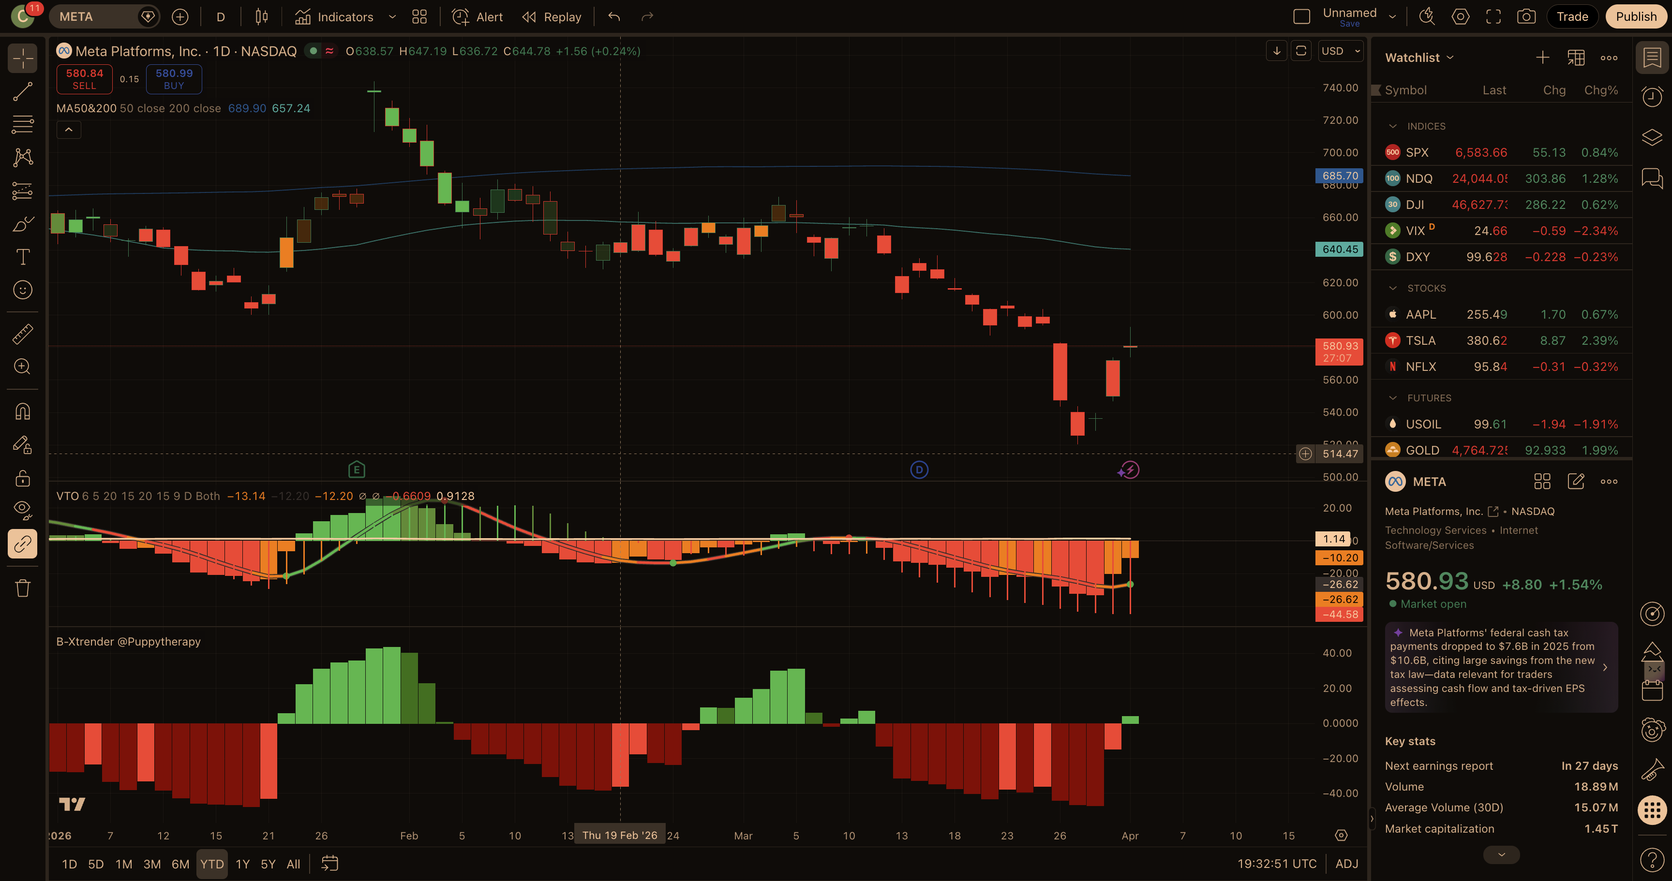
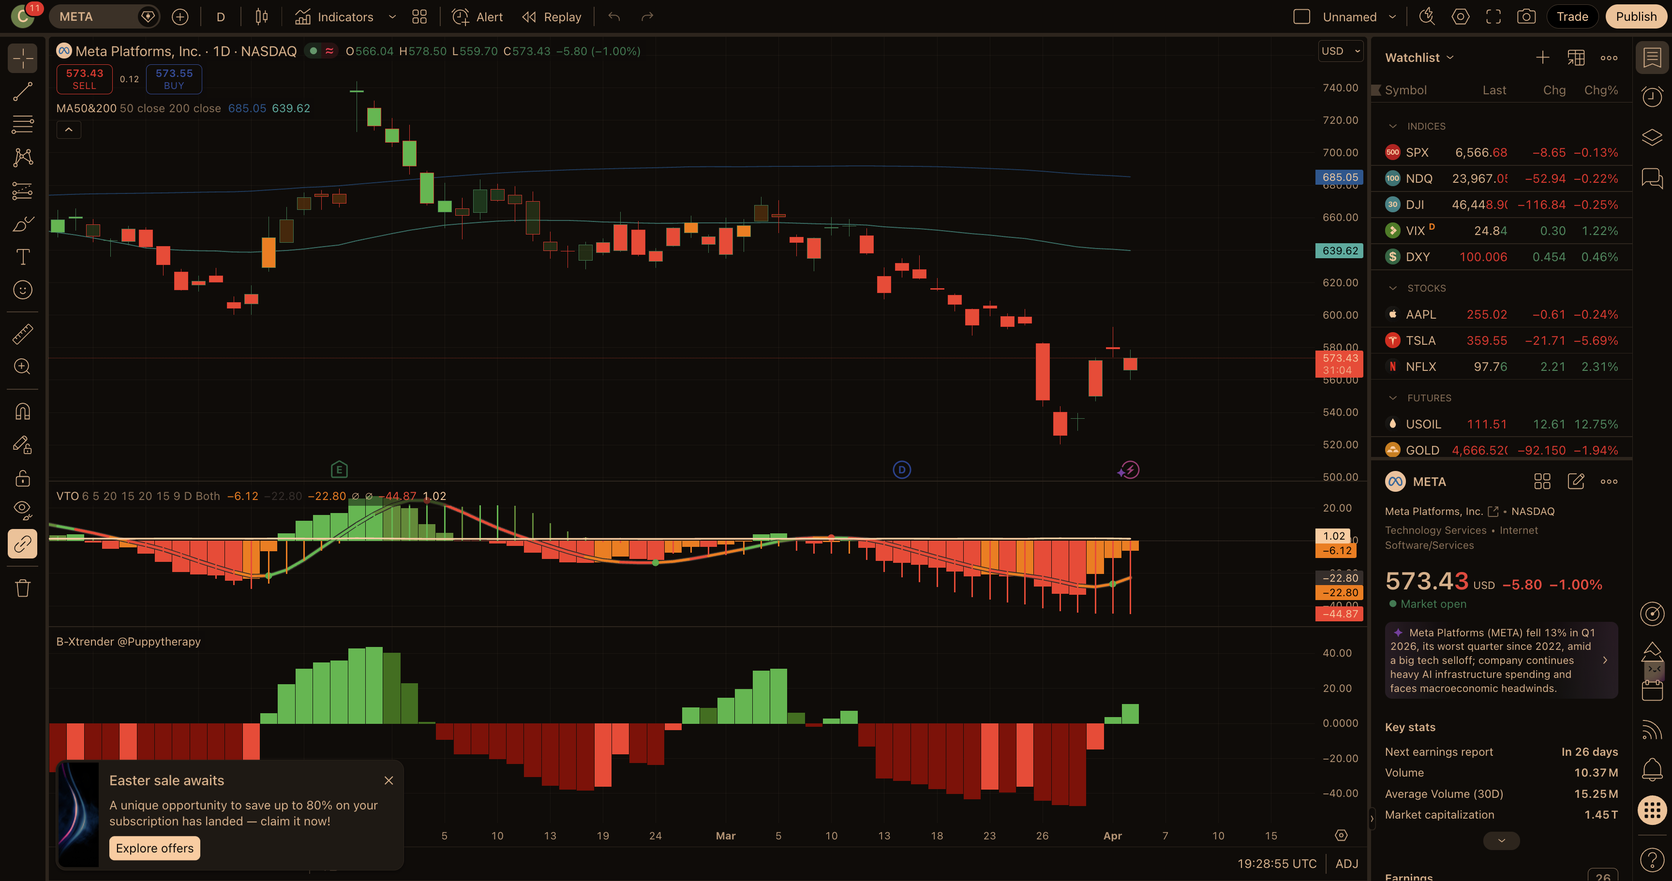
3 April

diff --git a/strategies/bearish-call-spread/report.md b/strategies/bearish-call-spread/report.md
@@ -1,220 +1,212 @@
 # Bearish Call Spread — Current Report
-_Last updated: 2026-04-01_
-
----
-
-## Scan source (this run)
-
-**User watchlist (28 symbols)** with snapshot quotes: ACN, ADBE, GE, GOOG, ORCL, GILD, SBUX, NOW, META, MU, HOOD, PLTR, AVGO, NVDA, CVS, DIS, UBER, PG, UNH, TSLA, ANET, PANW, V, CRM, APH, MSFT, RTX, IBM.  
-
-This is **not** the TrendSpider scheduled JSON scan — **trend/RSI/earnings windows from that scan are not guaranteed here.** Verify **earnings dates**, **short-call delta ≤ ~0.20**, and **liquidity** in your platform before risking capital.
-
-**TradingView:** Layout reopened on **1D (daily)** per your update; fresh screenshots for this run use the **1D** interval. If the interval pill ever reverts to **30m**, switch back to **1D** and **Save** the layout so TrendSpider and TradingView stay comparable.
+_Last updated: 2026-04-03_
 
 ---
 
 ## Market Context
 
-**SPY** (~$656) is **below** both the **50-day** (~$677) and **200-day** (~$662) averages — corrective / risk-off structure versus a smooth bull tape. **VIX** (watchlist snapshot ~**24.6**) is **elevated versus a calm market** but **not** in a panic band (~25 is a rough mental line; spot is close). That mix **helps credit** on bear call spreads but keeps **gap and tail risk** real; size to the width of your long call and to headline volatility.
+**SPY** (~$654) is slightly **below** its 200-day moving average (~$659) and **below** the 50-day (~$675) — a weak, choppy tape rather than a clean bull trend. **VIX ~24.8** is near the upper end of “normal” but not panic-level; it still supports option premium for credit spreads while warning that single-name tech can gap. Bear call spreads remain viable **only** if short strikes sit **above** clear MA/supply ceilings; **TSLA** and other high-beta names in today’s scan can move several percent intraday without broad-market confirmation.
 
 ---
 
-## Outcomes (this session)
+## Scan & Triage (this run)
 
-**14-day breach check:** No `trades-log.csv` rows fell in the **13–16 calendar-day** review window with empty outcomes (most recent open rows are **younger** than that). **0 rows** updated today.
+**Source:** User watchlist / scan image (**24 symbols**). **Prices and SMAs** for triage used Yahoo Finance (unofficial) aligned with the screenshot; prints may differ slightly intraday.
 
----
+**Universe:** GE, SBUX, LRCX, DIS, AVGO, MSFT, MDT, UNH, MU, GOOG, TSLA, UBER, NOW, V, NVDA, META, HOOD, RTX, CRM, ADBE, ANET, COF, APH, ORCL.
 
-## Triage (28-name quick screen)
+**Triage cuts (abbreviated):**
 
-| Ticker | Disposition |
-|--------|-------------|
-| **MU** | **Cut** — large **+Chg%** in your snapshot (**~+8.8%**); surge / reversal risk into resistance. |
-| **GE**, **GOOG**, **TSLA**, **ANET** | **Cut** — **strong green day** vs. “failed recovery” skew for a credit call spread. |
-| **PLTR** | **Cut** — price **hugging** the **50-day**; less clean downtrend vs. deeper breakdown names. |
-| **NVDA** | **Cut at triage** — leader beta; shallower discount to **50-day** than names taken forward. |
-| **HOOD**, **AVGO**, **APH**, etc. | **Cut** — time-box triage to **≤5** deep-research names; kept the cleanest **MA + narrative** stacks. |
-
-**Carried to full research / scoring:** **UNH**, **ORCL**, **META** (plus **ADBE** / **MSFT** as alternates; top three by score after scoring were UNH, ORCL, META).
+- **LRCX, MU, GOOG, RTX, SBUX, KO-adjacent defensives, BMY** — **above** the 200-day (or cyclical semis extended) → weaker “broad downtrend + hard ceiling” profile for this template.
+- **GE** — below both MAs but industrial / macro noise; deprioritized vs cleaner enterprise software breakdowns.
+- **MSFT** — below both MAs but **strongest** balance-sheet / narrative floor; lower bearish-conviction score than ORCL/ADBE/META.
+- **TSLA** — **largest** scanner red print (~−5.6%) but **gap / headline** risk dominates; kept as **optional** aggressive credit name, not in top 3.
+- **UNH** — valid structural short-call story but **already heavily logged** in recent runs; skipped for duplicate exposure vs **ORCL** (user-highlighted), **ADBE**, **META**.
+- **NOW, CRM, COF, ANET, APH, NVDA, HOOD, UBER, V** — mixed; **CRM/NOW** workable but **ORCL/ADBE/META** scored higher on combined resistance + liquidity + thematic pressure.
 
 ---
 
 ## Today's Top Picks
 
-### 1. UNH — Managed care; layered MA ceiling above spot
+### 1. ORCL — AI-datacenter unwind; user-highlighted; pivot below 200-day
 
-**Ticker:** UNH  
-**Current Price:** $274.22 _(yfinance last; aligns with your watchlist)_  
-**Sector:** Healthcare / Healthcare Plans  
-**Score:** 90/100 (A:38 B:25 C:17 D:15 Ded:−5)
+```
+Ticker: ORCL
+Current Price: $146.03
+Sector: Technology / Software — Infrastructure
+Score: 89/100 (A:40 B:23 C:11 D:15 Ded:0)
 
-**Setup Summary:**  
-Death cross and **first revenue-contraction guide** keep recoveries **sold into** declining **50-day (~$286)** and **200-day (~$309)**. Short call **above** that stack (**$330**) stays **OTM** unless a sustained re-rating — fit for **May** cycle **credit**.
+Setup Summary:
+Oracle remains in a post–AI-capex euphoria unwind: spot is far under the 200-day while the first durable supply sits at the declining 50-day (~$154) and the $165–$172 pivot band. A May bear call spread with the short leg at $170 keeps the structure above that layered ceiling while the equity digests FCF and data-center spend narratives.
 
-**Resistance Level:** **~$286–330** — declining 50-day into **200-day** and prior breakdown zone.
+Entry Zone: $146.03
+Stop Loss: N/A (spread — max loss if spot sustains above short strike + net credit)
+Target 1: N/A | Target 2: N/A
+Risk/Reward: Credit spread — verify net credit vs. $15 width
 
-**Suggested Spread:**  
-- **Short Call Strike:** **$330** (target **≤0.20 delta** — **confirm in platform**) — above layered MAs  
-- **Long Call Strike:** **$350** — ~6% wide  
-- **Target Expiry:** **May 15, 2026** (~43 DTE)  
-- **Est. Probability of Profit:** **~84%** (Yahoo IV proxy — **verify**)
+Resistance Level: $154 → $172 — 50-day MA into pre-breakdown pivot / supply
 
-**Short Strike Level (Stop Reference):** **$330** — sustained trade above invalidates the “rejection at MA stack” thesis.
+Suggested Spread:
+  Short Call Strike: $170 (~0.15–0.22 delta — confirm)
+  Long Call Strike:  $185 — $15-wide
+  Target Expiry:     15 May 2026 (~42 DTE)
+  Est. Probability of Profit: ~85% (delta proxy; May15 170c IV ~47.6% per Yahoo)
 
-**Key Risks:**  
-- **Earnings ~19 days** — IV crush / gap risk  
-- **Raymond James Outperform / $330 target** — narrative bid into resistance  
-- Medicare / CMS / legal headlines — two-way volatility  
+Short Strike Level (Stop Reference): $170 — 14-day outcome = spot vs this strike
 
-**Fundamental Note:**  
-Guiding to **first annual revenue contraction**; **medical care ratio** and **fiduciary investigation** overhang persist.
+Key Risks:
+- Hyperscaler capex headlines can reignite AI-beta squeezes
+- Cloud backlog and contract renewals remain fundamentally strong
+- Elevated IV can expand sharply on upside gaps
 
-**TradingView (NYSE:UNH, 1D):** VTO **negative / red-side** momentum on the daily pane. B-Xtrender **bearish red** regime with a **small green hint on the latest bar** (possible bounce within downtrend). Screenshot: `assets/tradingview-UNH.png`. Chart confirm: **partial**.
+Fundamental Note:
+The franchise is not broken; the trade is a **multiple / narrative** de-rating layered on a clean technical ceiling.
+```
 
-![UNH](assets/tradingview-UNH.png)
+**TradingView** (layout `z25AhAlV`, 1D, NYSE:ORCL): **VTO** red / sub-zero regime visible in panes; **B-Xtrender** red below zero. **Note:** an **Easter promo modal** partially covered the main price pane at capture — indicator read is from visible panes. **Chart confirm: full** (with overlay caveat). Screenshot: `assets/tradingview-ORCL.png`.
 
----
-
-### 2. ORCL — AI spend / FCF narrative; clean post-euphoria unwind
-
-**Ticker:** ORCL  
-**Current Price:** $145.73  
-**Sector:** Technology / Software — Infrastructure  
-**Score:** 87/100 (A:39 B:18 C:6 D:15 Ded:−3)
-
-**Setup Summary:**  
-Price **~33% below** the **200-day (~$218)** with the **declining 50-day (~$155)** and **$170–172** pivot as **first supply** before higher strikes. **Job cuts / restructuring** headlines reinforce **capital-allocation scrutiny**; structure sells **calls above** the **50-day + pivot** band.
-
-**Resistance Level:** **~$155–175** — declining 50-day and pre-breakdown pivot.
-
-**Suggested Spread:**  
-- **Short Call Strike:** **$175** (target **≤0.20 delta** — **confirm**)  
-- **Long Call Strike:** **$190** — ~8.6% wide  
-- **Target Expiry:** **May 15, 2026** (~43 DTE)  
-- **Est. Probability of Profit:** **~85%** (May15 **175c IV ~47%** per Yahoo — **verify delta**)
-
-**Short Strike Level (Stop Reference):** **$175**
-
-**Key Risks:**  
-- Hyperscaler **capex / AI** headlines  
-- **Restructuring** news can be read as “leaner Oracle” by bulls  
-- **High IV** — sharp rallies hurt short gamma  
-
-**Fundamental Note:**  
-Narrative pressure on **data-center spend and FCF timing**; **cloud backlog** still large — thesis is **technical overhead**, not distress.
-
-**TradingView (NYSE:ORCL, 1D):** VTO **rolling to bearish** (red/orange). B-Xtrender **red** on the latest leg below the prior green bounce. Screenshot: `assets/tradingview-ORCL.png`. Chart confirm: **full**.
-
-![ORCL](assets/tradingview-ORCL.png)
+![TradingView — ORCL — VTO + B-Xtrender](assets/tradingview-ORCL.png)
 
 ---
 
-### 3. META — Gap-through-MAs; regulatory / headline overhang
+### 2. ADBE — Trapped under MAs; supply into $260s–$275
 
-**Ticker:** META  
-**Current Price:** $580.59  
-**Sector:** Communication Services / Internet Content  
-**Score:** 84/100 (A:38 B:25 C:6 D:15 Ded:0)
+```
+Ticker: ADBE
+Current Price: $242.14
+Sector: Technology / Software — Application
+Score: 86/100 (A:36 B:20 C:6 D:15 Ded:0)
 
-**Setup Summary:**  
-**Large gap** through **50-day (~$640)** and **200-day (~$685)**; overhead **$650–700** acts as **recovery air pocket** before prior structure. Short strike **$700** sits **above** that zone for **May** **credit**.
+Setup Summary:
+Adobe is still working through slower growth and a post–Figma multiple reset. Price sits well below a declining 50-day (~$265) and the higher 200-day (~$328), with practical overhead into the **$260–$275** bounce-fail zone before a sustained recovery is credible.
 
-**Resistance Level:** **~$640–700** — MA gap-fill and supply into the breakdown zone.
+Entry Zone: $242.14
+Stop Loss: N/A (spread)
+Target 1: N/A | Target 2: N/A
+Risk/Reward: Credit spread — verify net credit vs. $15 width
 
-**Suggested Spread:**  
-- **Short Call Strike:** **$700** (target **≤0.20 delta** — **confirm**)  
-- **Long Call Strike:** **$730** — ~4.3% wide (tight — widen if credit poor)  
-- **Target Expiry:** **May 15, 2026** (~43 DTE)  
-- **Est. Probability of Profit:** **~82%** (May15 **700c IV ~40%** — **verify**)
+Resistance Level: $260–$275 — local supply into the declining 50-day
 
-**Short Strike Level (Stop Reference):** **$700**
+Suggested Spread:
+  Short Call Strike: $275 (~0.18–0.24 delta — confirm)
+  Long Call Strike:  $290 — $15-wide
+  Target Expiry:     15 May 2026 (~42 DTE)
+  Est. Probability of Profit: ~81% (proxy — verify in platform)
 
-**Key Risks:**  
-- **Mega-cap** bid on **risk-on** index days  
-- **Regulatory / tax** headline volatility  
-- **Highly profitable** — institutional dip buyers after gaps  
+Short Strike Level (Stop Reference): $275
 
-**Fundamental Note:**  
-Core business **still prints cash**; trade is **structural chart + headline** skew, not solvency.
+Key Risks:
+- Oversold bounce into the declining 50-day is common in quality software
+- Product / AI cadence can re-rate the multiple quickly
+- Cash-compounder status caps fundamental bearish scoring
 
-**TradingView (NASDAQ:META, 1D):** VTO **deep red** after the gap. B-Xtrender **sustained red / bearish territory**. Screenshot: `assets/tradingview-META.png`. Chart confirm: **full**.
+Fundamental Note:
+ARR and cash generation remain solid; the bearish edge is **technical + normalization**, not distress.
+```
 
-![META](assets/tradingview-META.png)
+**TradingView** (NASDAQ:ADBE): **VTO** bearish / negative territory; **B-Xtrender** still dominated by deep red structure but **small green histogram ticks** on the latest bars → **not** a perfectly clean “both flipped bearish on the last bar” read. **Chart confirm: partial** (B-Xtrender caution on micro-bounce). Screenshot: `assets/tradingview-ADBE.png`.
+
+![TradingView — ADBE — VTO + B-Xtrender](assets/tradingview-ADBE.png)
+
+---
+
+### 3. META — Mega-cap gap; layered ceiling into mid/high $600s
+
+```
+Ticker: META
+Current Price: $573.76
+Sector: Communication Services / Internet Content
+Score: 85/100 (A:38 B:20 C:7 D:15 Ded:0)
+
+Setup Summary:
+Meta is trading well below both major moving averages after a violent gap-and-fade sequence. Overhead layers naturally step through the high-$600s (50-day / gap supply zone) toward **$680+**, which fits a defined-risk call spread that stays above the nearest structural ceiling.
+
+Entry Zone: $573.76
+Stop Loss: N/A (spread)
+Target 1: N/A | Target 2: N/A
+Risk/Reward: Credit spread — verify net credit vs. $20 width
+
+Resistance Level: $639–$684 — declining 50-day into prior 200-day / supply band
+
+Suggested Spread:
+  Short Call Strike: $680 (~0.15–0.22 delta — confirm)
+  Long Call Strike:  $700 — $20-wide
+  Target Expiry:     15 May 2026 (~42 DTE)
+  Est. Probability of Profit: ~82% (proxy)
+
+Short Strike Level (Stop Reference): $680
+
+Key Risks:
+- Mega-cap “risk-on” index days can force violent cover rallies
+- Regulatory / tax headlines move the tape both ways
+- Profitability supports dip-buying — not a distressed credit
+
+Fundamental Note:
+Core ads economics remain intact; thesis is **trend + positioning + headline friction**, not balance-sheet stress.
+```
+
+**TradingView** (NASDAQ:META): **VTO** deep red below zero; **B-Xtrender** solid red below zero on latest bars. **Chart confirm: full.** Screenshot: `assets/tradingview-META.png`.
+
+![TradingView — META — VTO + B-Xtrender](assets/tradingview-META.png)
 
 ---
 
 ## Open Trades
-
-_Recommendations from **2026-03-18** onward with **no** 14-day outcome recorded yet._
+_Recommendations from the last 14 days with no outcome recorded yet._
 
 | Date | Ticker | Entry Price | Short Strike | Setup Summary |
 |---|---|---|---|---|
-| 2026-03-21 | ADBE | $248.15 | $285 – above 50-day MA (~$276) / March supply shelf | Short $285/$300 call spread \| Apr 2026 (~30 DTE) \| ~82% PoP \| Post-Figma narrative; trapped under MAs |
-| 2026-03-21 | ORCL | $149.68 | $175 – below 200-day MA (~$220) / pre-breakdown pivot zone | Short $175/$190 call spread \| Apr 2026 (~30 DTE) \| ~84% PoP \| AI-datacenter unwind |
-| 2026-03-21 | NOW | $110.38 | $125 – 50-day MA (~$116) + recent bounce failure zone | Short $125/$135 call spread \| Apr 2026 (~30 DTE) \| ~86% PoP \| SaaS breakdown |
-| 2026-03-23 | ORCL | $149.68 | $175 – 50-day MA (~$162) / $170–172 pivot below 200-day (~$219) | Short $175/$190 \| Apr 17 2026 \| ~82–84% PoP est |
-| 2026-03-23 | ADBE | $248.15 | $285 – 50-day MA (~$277) / March supply shelf into $275–$290 | Short $285/$300 \| Apr 17 2026 \| ~80–83% PoP est |
-| 2026-03-23 | NOW | $110.38 | $128 – above 50-day MA (~$117) / $120–126 January pivot band | Short $128/$140 \| Apr 17 2026 \| ~84–86% PoP est |
-| 2026-03-24 | META | $606.49 | $700 – above 50-day MA (~$649) / supply into prior 200-day zone (~$689) | Short $700/$720 \| Apr 17 2026 \| ~82% PoP est |
-| 2026-03-24 | ADBE | $247.81 | $285 – 50-day MA (~$276) / March supply shelf into high-$260s–$280 | Short $285/$300 \| Apr 17 2026 \| ~80–83% PoP est |
-| 2026-03-24 | NOW | $111.21 | $128 – above 50-day MA (~$116) / $120–126 January pivot band | Short $128/$140 \| Apr 17 2026 \| ~84–86% PoP est |
-| 2026-03-27 | UNH | $268.05 | $330 – above 200-day MA (~$314) / 50-day ceiling (~$294) | Short $330/$350 \| May 15 2026 \| ~84% PoP est |
-| 2026-03-27 | ORCL | $142.81 | $175 – 50-day MA (~$162) / $170–172 pivot below 200-day (~$220) | Short $175/$190 \| May 15 2026 \| ~85% PoP est |
-| 2026-03-27 | META | $547.54 | $700 – above 50-day MA (~$647) / gap & supply into $600–680 zone | Short $700/$730 \| May 15 2026 \| ~82% PoP est |
-| 2026-03-31 | ORCL | $137.78 | $170 – 50-day MA (~$156) / supply into $165–172 pivot | Short $170/$185 \| May 15 2026 \| ~86% PoP est |
-| 2026-03-31 | ADBE | $240.04 | $285 – 50-day MA (~$269–277) / March supply shelf into high-$260s | Short $285/$300 \| May 15 2026 \| ~81% PoP est |
-| 2026-03-31 | CRM | $183.68 | $220 – 50-day MA (~$199–206) / breakdown supply zone below 200-day (~$239) | Short $220/$235 \| May 15 2026 \| ~84% PoP est |
-| 2026-04-01 | UNH | $274.22 | $330 – above 200-day MA (~$309) / 50-day ceiling (~$286) | Short $330/$350 \| May 15 2026 \| ~84% PoP est |
-| 2026-04-01 | ORCL | $145.73 | $175 – 50-day MA (~$155) / $170–172 pivot below 200-day (~$218) | Short $175/$190 \| May 15 2026 \| ~85% PoP est |
-| 2026-04-01 | META | $580.59 | $700 – above 50-day (~$640) / gap supply into $650–680 zone | Short $700/$730 \| May 15 2026 \| ~82% PoP est |
+| 2026-03-23 | ORCL | $149.68 | $175 – 50-day MA (~$162) / $170–172 pivot below 200-day… | Short $175/$190 call spread \| Apr 17 2026 (~25 DTE) \| ~82–84% PoP est \| Price ~32% belo… |
+| 2026-03-23 | ADBE | $248.15 | $285 – 50-day MA (~$277) / March supply shelf into $275… | Short $285/$300 call spread \| Apr 17 2026 (~25 DTE) \| ~80–83% PoP est \| Trapped under f… |
+| 2026-03-23 | NOW | $110.38 | $128 – above 50-day MA (~$117) / $120–126 January pivot… | Short $128/$140 call spread \| Apr 17 2026 (~25 DTE) \| ~84–86% PoP est \| Large-cap SaaS … |
+| 2026-03-24 | META | $606.49 | $700 – above 50-day MA (~$649) / supply into prior 200-… | Short $700/$720 call spread \| Apr 17 2026 (~24 DTE) \| ~82% PoP est \| Well below declini… |
+| 2026-03-24 | ADBE | $247.81 | $285 – 50-day MA (~$276) / March supply shelf into high… | Short $285/$300 call spread \| Apr 17 2026 (~24 DTE) \| ~80–83% PoP est \| Trapped under f… |
+| 2026-03-24 | NOW | $111.21 | $128 – above 50-day MA (~$116) / $120–126 January pivot… | Short $128/$140 call spread \| Apr 17 2026 (~24 DTE) \| ~84–86% PoP est \| Large-cap SaaS … |
+| 2026-03-27 | UNH | $268.05 | $330 – above 200-day MA (~$314) / 50-day ceiling (~$294… | Short $330/$350 call spread \| May 15 2026 (~49 DTE) \| ~84% PoP est \| Death cross; layer… |
+| 2026-03-27 | ORCL | $142.81 | $175 – 50-day MA (~$162) / $170–172 pivot below 200-day… | Short $175/$190 call spread \| May 15 2026 (~49 DTE) \| ~85% PoP est \| Post-AI-datacenter… |
+| 2026-03-27 | META | $547.54 | $700 – above 50-day MA (~$647) / gap & supply into $600… | Short $700/$730 call spread \| May 15 2026 (~49 DTE) \| ~82% PoP est \| Large gap-down thr… |
+| 2026-03-31 | ORCL | $137.78 | $170 – 50-day MA (~$156) / supply into $165–172 pivot | Short $170/$185 call spread \| May 15 2026 (~45 DTE) \| ~86% PoP est \| AI capex/FCF narra… |
+| 2026-03-31 | ADBE | $240.04 | $285 – 50-day MA (~$269–277) / March supply shelf into … | Short $285/$300 call spread \| May 15 2026 (~45 DTE) \| ~81% PoP est \| Trapped under fall… |
+| 2026-03-31 | CRM | $183.68 | $220 – 50-day MA (~$199–206) / breakdown supply zone be… | Short $220/$235 call spread \| May 15 2026 (~45 DTE) \| ~84% PoP est \| Large-cap SaaS dow… |
+| 2026-04-01 | UNH | $274.22 | $330 – above 200-day MA (~$309) / 50-day ceiling (~$286… | Short $330/$350 call spread \| May 15 2026 (~43 DTE) \| ~84% PoP est \| Death cross; first… |
+| 2026-04-01 | ORCL | $145.73 | $175 – 50-day MA (~$155) / $170–172 pivot below 200-day… | Short $175/$190 call spread \| May 15 2026 (~43 DTE) \| ~85% PoP est \| Post-AI-datacenter… |
+| 2026-04-01 | META | $580.59 | $700 – above 50-day (~$640) / gap supply into $650–680 … | Short $700/$730 call spread \| May 15 2026 (~43 DTE) \| ~82% PoP est \| Large gap through … |
+| 2026-04-03 | ORCL | $146.03 | $170 – 50-day MA (~$154) / $165–172 pivot below 200-day… | Short $170/$185 call spread \| May 15 2026 (~42 DTE) \| ~85% PoP est \| AI-datacenter / FC… |
+| 2026-04-03 | ADBE | $242.14 | $275 – declining 50-day MA (~$265) / supply into $260–2… | Short $275/$290 call spread \| May 15 2026 (~42 DTE) \| ~81% PoP est \| Trapped under 50/2… |
+| 2026-04-03 | META | $573.76 | $680 – above 50-day (~$639) / supply into prior 200-day… | Short $680/$700 call spread \| May 15 2026 (~42 DTE) \| ~82% PoP est \| Large-cap gap-and-… |
 
 ---
 
 ## Performance Summary
-
-_All rows with a recorded 14-day outcome (`WIN` = spot stayed **below** short-call reference strike)._
+_All checked trades (outcome recorded at 14-day mark; WIN = spot remained **below** short strike reference)._
 
 | Date | Ticker | Entry Price | Price at 14 Days | % Move | Short Strike | Result |
 |---|---|---|---|---|---|---|
-| 2026-03-07 | ABT | 108.66 | 105.46 | -2.95 | $120 | WIN |
-| 2026-03-07 | TSLA | 394.68 | 367.96 | -6.77 | $480 | WIN |
-| 2026-03-07 | KKR | 90.99 | 90.00 | -1.09 | $105 | WIN |
-| 2026-03-07 | UNH | 284.75 | 275.59 | -3.22 | $315 | WIN |
-| 2026-03-07 | MS | 160.47 | 161.47 | 0.62 | $180 | WIN |
-| 2026-03-07 | DIS | 101.66 | 99.51 | -2.12 | $115 | WIN |
-| 2026-03-11 | QCOM | 134.55 | 129.90 | -3.46 | $155 | WIN |
-| 2026-03-11 | JPM | 286.65 | 286.56 | -0.03 | $310 | WIN |
-| 2026-03-11 | CVS | 76.46 | 71.48 | -6.51 | $83 | WIN |
-| 2026-03-17 | UNH | 285.78 | 260.19 | -8.96 | $300 | WIN |
-| 2026-03-17 | JPM | 286.26 | 282.52 | -1.30 | $310 | WIN |
-| 2026-03-17 | BA | 213.88 | 188.08 | -12.06 | $240 | WIN |
-| 2026-03-19 | UNH | 283.70 | 260.19 | -8.29 | $330 | WIN |
-| 2026-03-19 | TSLA | 393.22 | 352.40 | -10.38 | $450 | WIN |
-| 2026-03-19 | CVS | 73.07 | 69.55 | -4.82 | $83 | WIN |
+| 2026-03-07 | ABT | $108.66 | $105.46 | -2.95% | $120 | WIN |
+| 2026-03-07 | TSLA | $394.68 | $367.96 | -6.77% | $480 | WIN |
+| 2026-03-07 | KKR | $90.99 | $90.0 | -1.09% | $105 | WIN |
+| 2026-03-07 | UNH | $284.75 | $275.59 | -3.22% | $315 | WIN |
+| 2026-03-07 | MS | $160.47 | $161.47 | 0.62% | $180 | WIN |
+| 2026-03-07 | DIS | $101.66 | $99.51 | -2.12% | $115 | WIN |
+| 2026-03-11 | QCOM | $134.55 | $129.9 | -3.46% | $155 | WIN |
+| 2026-03-11 | JPM | $286.65 | $286.56 | -0.03% | $310 | WIN |
+| 2026-03-11 | CVS | $76.46 | $71.48 | -6.51% | $83 | WIN |
+| 2026-03-17 | UNH | $285.78 | $260.19 | -8.96% | $300 | WIN |
+| 2026-03-17 | JPM | $286.26 | $282.52 | -1.3% | $310 | WIN |
+| 2026-03-17 | BA | $213.88 | $188.08 | -12.06% | $240 | WIN |
+| 2026-03-19 | UNH | $283.70 | $260.19 | -8.29% | $330 | WIN |
+| 2026-03-19 | TSLA | $393.22 | $352.4 | -10.38% | $450 | WIN |
+| 2026-03-19 | CVS | $73.07 | $69.55 | -4.82% | $83 | WIN |
+| 2026-03-21 | ADBE | $248.15 | $242.12 | -2.43% | $285 | WIN |
+| 2026-03-21 | ORCL | $149.68 | $145.86 | -2.55% | $175 | WIN |
+| 2026-03-21 | NOW | $110.38 | $101.75 | -7.82% | $125 | WIN |
 
 ### Aggregate Stats
-
-- **Total checked:** 15  
-- **Win rate (stock below short strike at 14 days):** 100%  
-- **Average stock % move (all closed):** -4.76%  
-- **Average stock % move on wins:** -4.76%  
-- **Average stock % move on losses:** _n/a (no losses in sample)_  
+- **Total checked:** 18
+- **Win rate (stock below short strike at 14 days):** 100%
+- **Average stock % move (all closed):** -4.67%
+- **Average stock % move on wins:** -4.67%
 
 ---
 
-```
-=== BEARISH CALL SPREAD SCAN — 2026-04-01 ===
-Universe: Large Cap (user 28-symbol watchlist) | Style: Monthly Bear Call Spreads
-
-Outcomes recorded today: none due (0 rows)
-Tickers in scan (28): ACN, ADBE, GE, GOOG, ORCL, GILD, SBUX, NOW, META, MU, HOOD, PLTR, AVGO, NVDA, CVS, DIS, UBER, PG, UNH, TSLA, ANET, PANW, V, CRM, APH, MSFT, RTX, IBM
-Market context: SPY below 50d/200d; VIX ~mid-20s — credit OK, gap risk real
-
-TOP 3 PICKS (after TradingView VTO + B-Xtrender check, chart interval 1D):
-1. UNH — Short $330/$350 call spread, ~84% PoP est, exp May 2026 — Chart: partial (B-Xtrender last bar hinting bounce)
-2. ORCL — Short $175/$190 call spread, ~85% PoP est, exp May 2026 — Chart: full
-3. META — Short $700/$730 call spread, ~82% PoP est, exp May 2026 — Chart: full
-
-Full details above. Results saved to strategies/bearish-call-spread/trades-log.csv.
-Report written to strategies/bearish-call-spread/report.md.
-```
+_Disclaimer: Educational / research workflow only. Options involve risk; verify strikes, credits, margin, and probabilities in your broker platform. Past outcomes do not predict future results._
